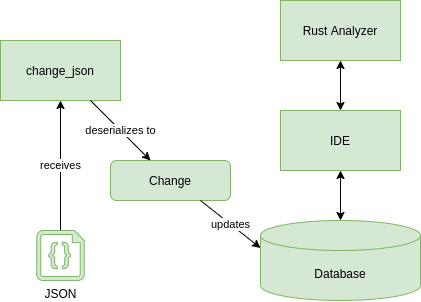
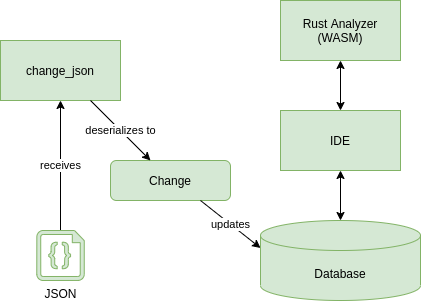
Add Fig 3 text to README

Changed region(s): [[0.7102, 0.0596, 0.8955, 0.149]]

diff --git a/README.md b/README.md
@@ -37,17 +37,22 @@ Here, all the crates which are colored in red won't compile to WebAssembly. This
 
 However, all the tools which are provided by the IDE crate compile flawlessly as well as the RA Databse to which also the Change object berlongs, as same as all the other dependencies of these crates whcih are asbtracted away in Fig. 1.
 
-Now the role of the `crate_extractor` crate is to create the `Change` object in more or less the same way that the `project_model` crate does it. But then, instead of sending it to the Rust Analyzer database it utilizes the `change_json` crate to parse it to JSON. The `change_json` crate defines its own JSON structure which is (de-)serializable by [Serde JSON](https://github.com/serde-rs/json), as well as the required tools to voncert the `Change` object to its corresponding JSON structure and vice-versa, see Fig. 2 below for a visualization of this interaction:
+The `crate_extractor` crate is creating the `Change` object by utilizing the `project_model` crate in a similar way then the `Rust Analyzer` crate does it in Fig 1. But then, instead of sending it to the Rust Analyzer database it utilizes the `change_json` crate to parse it to JSON. The `change_json` crate defines its own JSON structure which is (de-)serializable by [Serde JSON](https://github.com/serde-rs/json), as well as the required tools to convert the `Change` object to its corresponding JSON structure and vice-versa, see Fig. 2 below for a visualization of this interaction:
 
 <figure>
 <p align="center">
   <img src="architecture2.png" alt="Cli Tool">
-  <figcaption><p align="center">Fig.2</p></figcaption>
+  <figcaption><p align="center">Fig.2 How this repo extracts Cargo Crate data into a JSON structure</p></figcaption>
   </p>
 </figure>
+
+While the `crate_extrator` crate is utilizing various dependencies whcih won't compile to WASM, we can't use it in a Webassembly version of Rust Analyzer. However, the `change_json` crate consumes just a bare minimum of basic dependencies like the RA `Database` and therefore compiles to WASM.
+
+The way it is utilized to provide a Rust projects source code and dependency graph to a WASM implementation of Rust Analyzer is visualized in Fig. 3 below:
+
 <figure>
 <p align="center">
   <img src="architecture3.png" alt="WASM Setup for RA">
-  <figcaption><p align="center">Fig.3</p></figcaption>
+  <figcaption><p align="center">Fig.3 The WASM version of RA can utilize `change_json` to receive the crate deps</p></figcaption>
   </p>
 </figure>
